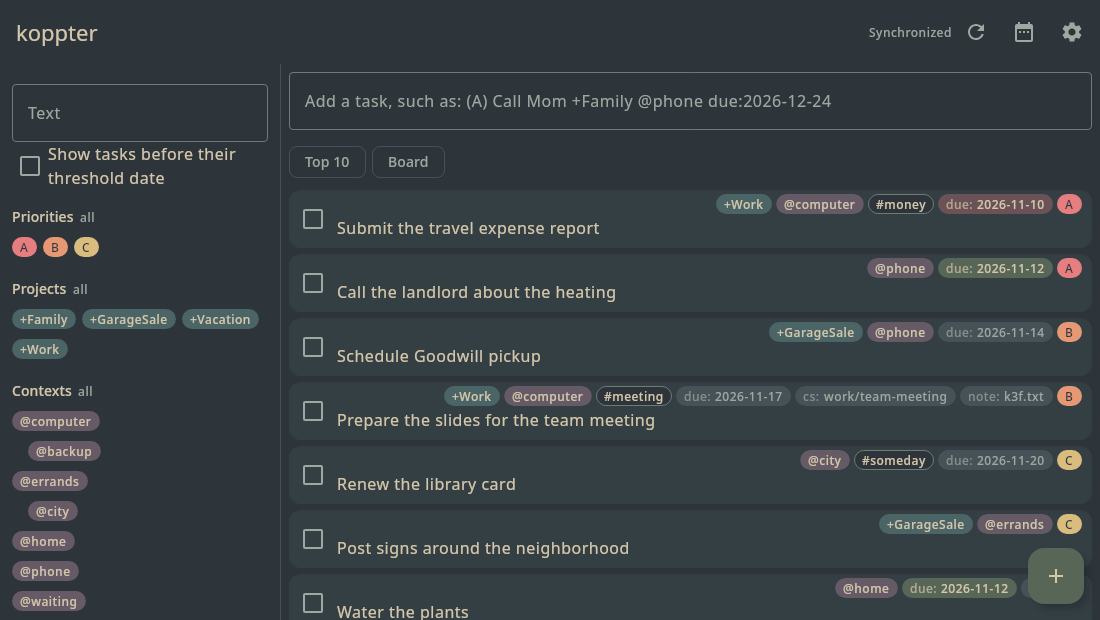
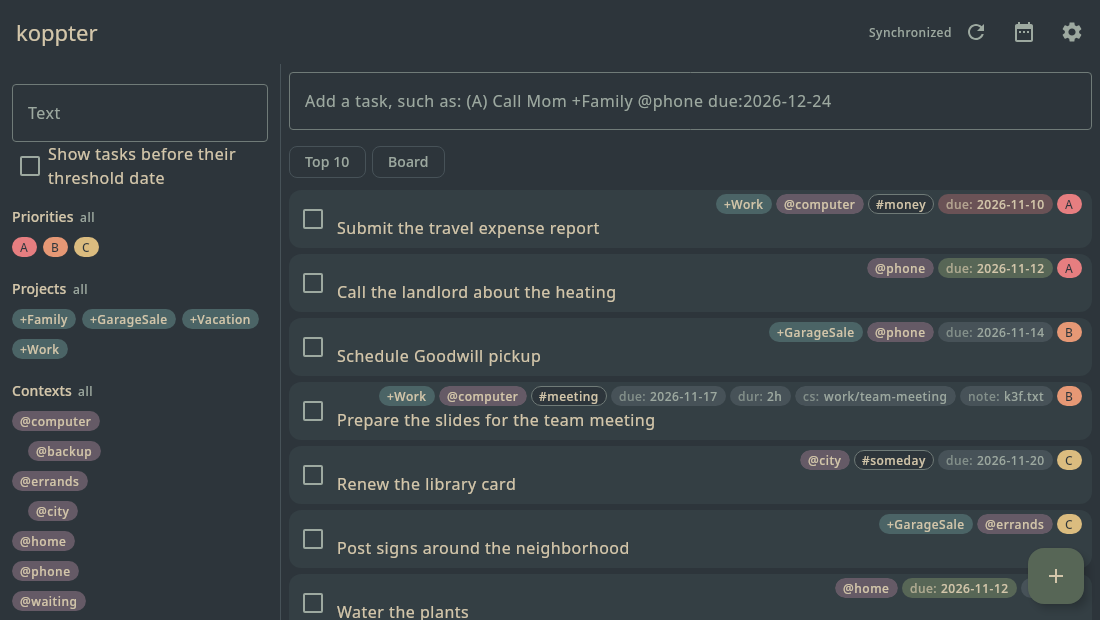
Add a tag for the duration of a task
Planning the day needs the time a task is expected to take. The tag dur: holds it in hours and minutes, and the edit dialog has a field for it; nothing is computed from it yet.

Changed region(s): [[0.34, 0.6129, 0.7109, 0.6742]]

diff --git a/app/src/commonMain/kotlin/io/github/koppor/koppter/ui/EditDialog.kt b/app/src/commonMain/kotlin/io/github/koppor/koppter/ui/EditDialog.kt
@@ -78,6 +78,7 @@ fun EditDialog(
     var due by remember { mutableStateOf(original.tag(Task.DUE).orEmpty()) }
     var threshold by remember { mutableStateOf(original.tag(Task.THRESHOLD).orEmpty()) }
     var recurrence by remember { mutableStateOf(original.tag(Task.RECURRENCE).orEmpty()) }
+    var duration by remember { mutableStateOf(original.tag(Task.DURATION).orEmpty()) }
     var contextSwitcher by remember { mutableStateOf(original.tag(Task.CONTEXT_SWITCHER).orEmpty()) }
     var projects by remember { mutableStateOf(original.projects) }
     var contexts by remember { mutableStateOf(original.contexts) }
@@ -87,17 +88,19 @@ fun EditDialog(
     val dueValid = due.isBlank() || Task.parseDate(due.trim()) != null
     val thresholdValid = threshold.isBlank() || Task.parseDate(threshold.trim()) != null
     val recurrenceValid = recurrence.isBlank() || Recurrence.parse(recurrence.trim()) != null
+    val durationValid = duration.isBlank() || Task.parseDuration(duration.trim()) != null
     val result = original
         .edit(description = description, priority = priority, projects = projects, contexts = contexts, hashtags = hashtags)
         .withTag(Task.DUE, due.trim())
         .withTag(Task.THRESHOLD, threshold.trim())
         .withTag(Task.RECURRENCE, recurrence.trim())
+        .withTag(Task.DURATION, duration.trim())
         // A link pasted into the description counts only while the field is empty.
         .withTag(Task.CONTEXT_SWITCHER, Task.contextSwitcherId(contextSwitcher))
         .let { if (contextSwitcher.isBlank()) it.withContextSwitcherTags() else it }
         // [impl->dsn~notes~1]
         .let { if (originalNote == null) it else it.withTag(Task.NOTE, if (note.isBlank()) null else original.tag(Task.NOTE) ?: newNoteName) }
-    val valid = dueValid && thresholdValid && recurrenceValid && result.body.isNotBlank()
+    val valid = dueValid && thresholdValid && recurrenceValid && durationValid && result.body.isNotBlank()
 
     Dialog(onDismissRequest = onDismiss) {
         Surface(
@@ -145,15 +148,27 @@ fun EditDialog(
                     )
                 }
 
-                // [impl->dsn~context-switcher-tag~1]
-                OutlinedTextField(
-                    value = contextSwitcher,
-                    onValueChange = { contextSwitcher = it },
-                    label = { Text("ContextSwitcher task") },
-                    placeholder = { Text("category/task or a copied link") },
-                    singleLine = true,
-                    modifier = Modifier.fillMaxWidth().testTag("edit-cs"),
-                )
+                Row(horizontalArrangement = Arrangement.spacedBy(8.dp)) {
+                    // [impl->dsn~duration~1]
+                    OutlinedTextField(
+                        value = duration,
+                        onValueChange = { duration = it },
+                        label = { Text("Duration") },
+                        placeholder = { Text("45m, 1h30m") },
+                        isError = !durationValid,
+                        singleLine = true,
+                        modifier = Modifier.width(165.dp).testTag("edit-duration"),
+                    )
+                    // [impl->dsn~context-switcher-tag~1]
+                    OutlinedTextField(
+                        value = contextSwitcher,
+                        onValueChange = { contextSwitcher = it },
+                        label = { Text("ContextSwitcher task") },
+                        placeholder = { Text("category/task or a copied link") },
+                        singleLine = true,
+                        modifier = Modifier.weight(1f).testTag("edit-cs"),
+                    )
+                }
 
                 NameList("Project", "+", projects, knownProjects, { projects = it }, "edit-project")
                 NameList("Context", "@", contexts, knownContexts, { contexts = it }, "edit-context")

diff --git a/app/src/desktopTest/kotlin/io/github/koppor/koppter/ui/ScreenshotTest.kt b/app/src/desktopTest/kotlin/io/github/koppor/koppter/ui/ScreenshotTest.kt
@@ -57,7 +57,7 @@ class ScreenshotTest {
         override var onStatus: (SyncStatus) -> Unit = {}
         override fun sync() = Unit
         override fun dates() = mapOf(
-            "(B) Prepare the slides for the team meeting +Work @computer #meeting due:2026-11-17 cs:work/team-meeting note:k3f.txt" to TaskDates(added = LocalDate(2026, 11, 5)),
+            "(B) Prepare the slides for the team meeting +Work @computer #meeting due:2026-11-17 dur:2h cs:work/team-meeting note:k3f.txt" to TaskDates(added = LocalDate(2026, 11, 5)),
         )
 
         override fun readCompanion(path: String) = companions[path]
@@ -67,7 +67,7 @@ class ScreenshotTest {
             (A) Call the landlord about the heating @phone due:2026-11-12
             (A) Submit the travel expense report +Work @computer #money due:2026-11-10
             (B) Schedule Goodwill pickup +GarageSale @phone due:2026-11-14
-            (B) Prepare the slides for the team meeting +Work @computer #meeting due:2026-11-17 cs:work/team-meeting note:k3f.txt
+            (B) Prepare the slides for the team meeting +Work @computer #meeting due:2026-11-17 dur:2h cs:work/team-meeting note:k3f.txt
             (C) Post signs around the neighborhood +GarageSale @errands
             (C) Renew the library card @errands>city #someday due:2026-11-20
             Water the plants @home due:2026-11-12 rec:1w

diff --git a/core/src/commonMain/kotlin/io/github/koppor/koppter/todotxt/Task.kt b/core/src/commonMain/kotlin/io/github/koppor/koppter/todotxt/Task.kt
@@ -4,6 +4,7 @@ import kotlinx.datetime.DateTimeUnit
 import kotlinx.datetime.LocalDate
 import kotlinx.datetime.daysUntil
 import kotlinx.datetime.minus
+import kotlin.time.Duration
 
 /**
  * One task line of a todo.txt file.
@@ -59,6 +60,9 @@ data class Task(
     val threshold: LocalDate? get() = tag(THRESHOLD)?.let(::parseDate)
 
     val recurrence: Recurrence? get() = tag(RECURRENCE)?.let(Recurrence::parse)
+
+    /** The time the task is expected to take. */
+    val duration: Duration? get() = tag(DURATION)?.let(::parseDuration)
 
     // [impl->dsn~task-serializer~1]
     fun toLine(): String = buildString {
@@ -175,6 +179,11 @@ data class Task(
         const val PRIORITY = "pri"
         const val NOTE = "note"
         const val CONTEXT_SWITCHER = "cs"
+        const val DURATION = "dur"
+
+        /** Reads a duration such as `45m`, `2h` or `1h30m`; `null` if the text is none or not positive. */
+        // [impl->dsn~duration~1]
+        fun parseDuration(text: String): Duration? = Duration.parseOrNull(text)?.takeIf { it.isPositive() && it.isFinite() }
 
         /**
          * The link that makes ContextSwitcher switch to the task that a tag `cs:` names.

diff --git a/core/src/commonTest/kotlin/io/github/koppor/koppter/todotxt/TaskTest.kt b/core/src/commonTest/kotlin/io/github/koppor/koppter/todotxt/TaskTest.kt
@@ -211,6 +211,17 @@ class TaskTest {
         assertEquals(task, task.edit(hashtags = listOf("family")))
     }
 
+    // [utest->dsn~duration~1]
+    @Test
+    fun theDurationIsReadFromItsTag() {
+        assertEquals(90, Task.parse("Read the survey dur:1h30m").duration?.inWholeMinutes)
+        assertEquals(45, Task.parse("Read the survey dur:45m").duration?.inWholeMinutes)
+        assertEquals(120, Task.parse("Read the survey dur:2h").duration?.inWholeMinutes)
+        for (none in listOf("Read the survey", "Read dur:long", "Read dur:0m", "Read dur:-1h", "Read dur:90")) {
+            assertEquals(null, Task.parse(none).duration, none)
+        }
+    }
+
     // [utest->dsn~context-switcher-tag~1]
     @Test
     fun aLinkOfContextSwitcherBecomesATagThatGivesTheLinkToSwitch() {

diff --git a/app/src/desktopTest/kotlin/io/github/koppor/koppter/ui/AppTest.kt b/app/src/desktopTest/kotlin/io/github/koppor/koppter/ui/AppTest.kt
@@ -165,6 +165,18 @@ class AppTest {
         assertEquals("Post signs +GarageSale due:2026-11-30", storage.text.lines()[1])
     }
 
+    // [utest->dsn~duration~1]
+    @Test
+    fun theDialogSetsTheDurationAndRejectsWhatIsNone() = runComposeUiTest {
+        start()
+        openTask("Post signs")
+        onNodeWithTag("edit-duration").performTextInput("long")
+        onNodeWithTag("edit-save").performScrollTo().assertIsNotEnabled()
+        onNodeWithTag("edit-duration").performTextReplacement("1h30m")
+        onNodeWithTag("edit-save").performClick()
+        assertEquals("Post signs +GarageSale dur:1h30m", storage.text.lines()[1])
+    }
+
     // [utest->dsn~edit-dialog~1]
     @Test
     fun deletesATaskFromTheDialog() = runComposeUiTest {

diff --git a/README.md b/README.md
@@ -100,6 +100,7 @@ The application understands the following extensions, which other todo.txt tools
 | `note:k3f.txt` | A note for the task, kept in the file `notes/k3f.txt` | *Note* in the edit dialog; the application names the file. As in the [note add-on](https://github.com/mgarrido/todo.txt-cli/tree/note/todo.actions.d). |
 | `#urgent` | Hashtag: a third kind of label next to `+project` and `@context`, without a fixed meaning | *Add hashtag* in the edit dialog, or typed into the task. A hashtag starts with a letter: `#123` and `C#` stay words of the description ([decision 0014](docs/decisions/0014-hashtags-as-a-third-kind-of-label.md)). |
 | `@research>reading` | A context below another context, over any number of levels | Typed as the context. The label shows `@reading`, and the path when the pointer rests on it; a click on it shows the tasks of the context. A filter for `@research` includes the contexts below it, and the filter panel shows the contexts as a tree ([decision 0017](docs/decisions/0017-levels-of-a-context-separated-by-a-greater-than-sign.md)). |
+| `dur:1h30m` | The time the task is expected to take, in hours and minutes | Field *Duration* in the edit dialog, or typed into the task. Nothing is computed from it yet ([decision 0018](docs/decisions/0018-tag-for-the-duration-of-a-task.md)). |
 | `cs:jabref/fix-npe` | The task of [ContextSwitcher](https://github.com/contextswitcher/contextswitcher) that holds the working context | Entered in the field *ContextSwitcher task* of the edit dialog or typed into the task, as the id or as the link that *Copy link* of ContextSwitcher gives, which becomes the tag. A click on the label switches to the task in ContextSwitcher, on a computer where it has registered its links ([decision 0016](docs/decisions/0016-tag-for-the-task-of-contextswitcher.md)). |
 | `pri:A` | The priority a completed task had | Written when a task with a priority is completed, as the format has no priority for completed tasks; reopening the task restores the priority. |
 

diff --git a/docs/decisions/0018-tag-for-the-duration-of-a-task.md b/docs/decisions/0018-tag-for-the-duration-of-a-task.md
@@ -1,0 +1,52 @@
+---
+status: accepted
+date: 2026-11-12
+decision-makers: Oliver Kopp
+---
+
+# A Tag Holds the Duration of a Task
+
+`adr~duration-tag~1`
+
+Needs: dsn
+
+## Context and Problem Statement
+
+Planning the day needs to know how long a task is expected to take.
+The todo.txt format has no notation for it, and the tools that extend the format have not agreed on one.
+How does a task state its duration?
+
+## Considered Options
+
+* The tag `dur:` with hours and minutes, such as `dur:1h30m`
+* The tag `est:` with hours and minutes
+* The tag `pm:` with a number of pomodoros, as Sleek has it
+* The tag `min:` with a number of minutes
+
+## Decision Outcome
+
+Chosen option: "The tag `dur:` with hours and minutes", because the value reads as people write a duration and the key says what the value is.
+
+### Consequences
+
+* Good, because other todo.txt tools keep the tag as they keep every `key:value` tag.
+* Bad, because no other tool is known to read this tag.
+
+## Pros and Cons of the Options
+
+### The tag `est:`
+
+* Good, because it says that the value is an estimate.
+* Bad, because it does not say what is estimated.
+
+### The tag `pm:`
+
+* Good, because an existing tool reads it.
+* Bad, because the length of a pomodoro is a setting, so that the line alone does not tell the duration.
+* Bad, because a task of ten minutes has no value.
+
+### The tag `min:`
+
+* Good, because the value is a plain number.
+* Bad, because `min:240` is harder to read than `dur:4h`.
+* Bad, because `min` also reads as minimum.

diff --git a/CHANGELOG.md b/CHANGELOG.md
@@ -31,6 +31,7 @@ and this project adheres to [Calendar Versioning](https://calver.org/) with the 
 - *Top* switch that restricts the list to the first tasks; their number is a setting.
 - Hashtags (`#tag`) as a third kind of label next to projects and contexts: shown on the task, offered in the filter panel, the edit dialog and the filters of board columns.
 - Contexts below contexts, written as `@research>reading`: the label shows the last level, a click on it shows the tasks of the context, and a filter for a context includes the contexts below it.
+- The tag `dur:` holds the time a task is expected to take, such as `dur:1h30m`; the edit dialog has a field for it.
 - Board view with one column per priority, project, context, hashtag or due date range.
 - Board columns defined by filter expressions in the syntax of topydo, such as `Today = due:<=today -@waiting`; they are entered in the settings and kept in `koppter.yml` next to the todo.txt file.
 - On the board, dragging a task to another column changes its priority, project, context or due date accordingly; for a column defined by a filter, the task is changed as little as possible so that it matches the filter.

diff --git a/docs/requirements/ui.md b/docs/requirements/ui.md
@@ -42,7 +42,7 @@ Needs: dsn
 `req~edit-dialog~1`
 
 The edit dialog shows the description without metadata in its first field.
-Below it, the dialog has fields for priority, due date, threshold date, recurrence, the task of ContextSwitcher, projects, contexts and hashtags.
+Below it, the dialog has fields for priority, due date, threshold date, recurrence, duration, the task of ContextSwitcher, projects, contexts and hashtags.
 Below these fields, the dialog shows the line as it will be written to the todo.txt file, in a monospaced font.
 
 Covers:
@@ -191,7 +191,7 @@ Needs: impl, utest
 
 `EditDialog` keeps the edited values as dialog state and computes the resulting task with `Task.edit` and `Task.withTag` on every change.
 The resulting line is shown below the fields in a monospaced font.
-*Save* is disabled while a date or the recurrence is invalid or the task is empty.
+*Save* is disabled while a date, the recurrence or the duration is invalid or the task is empty.
 The dialog also serves for a new task.
 
 Covers:

diff --git a/docs/requirements/extensions.md b/docs/requirements/extensions.md
@@ -65,6 +65,17 @@ Covers:
 
 Needs: dsn
 
+### Duration of a task
+`req~duration~1`
+
+A task states the time it is expected to take.
+
+Covers:
+
+* `feat~extensions~1`
+
+Needs: dsn
+
 ### Task of ContextSwitcher
 `req~context-switcher-link~1`
 
@@ -380,6 +391,20 @@ Covers:
 
 * `req~context-hierarchy~1`
 * `adr~context-hierarchy~1`
+
+Needs: impl, utest
+
+### Tag for the duration
+`dsn~duration~1`
+
+The tag `dur:` holds the duration in hours and minutes, such as `45m`, `2h` or `1h30m`.
+`Task.duration` reads it with the parser of the Kotlin standard library and gives nothing for a value that is no positive duration.
+The edit dialog has a field for the tag and disables *Save* while its value is no duration.
+
+Covers:
+
+* `req~duration~1`
+* `adr~duration-tag~1`
 
 Needs: impl, utest
 

diff --git a/docs/decisions/README.md b/docs/decisions/README.md
@@ -22,6 +22,7 @@ Architectural decisions are recorded as [Markdown Architectural Decision Records
 | [0015](0015-colors-from-published-palettes.md) | Colors come from the palettes Nord and Everforest |
 | [0016](0016-tag-for-the-task-of-contextswitcher.md) | A tag names the task of ContextSwitcher |
 | [0017](0017-levels-of-a-context-separated-by-a-greater-than-sign.md) | The levels of a context are separated by a greater-than sign |
+| [0018](0018-tag-for-the-duration-of-a-task.md) | A tag holds the duration of a task |
 
 ## Conventions
 
